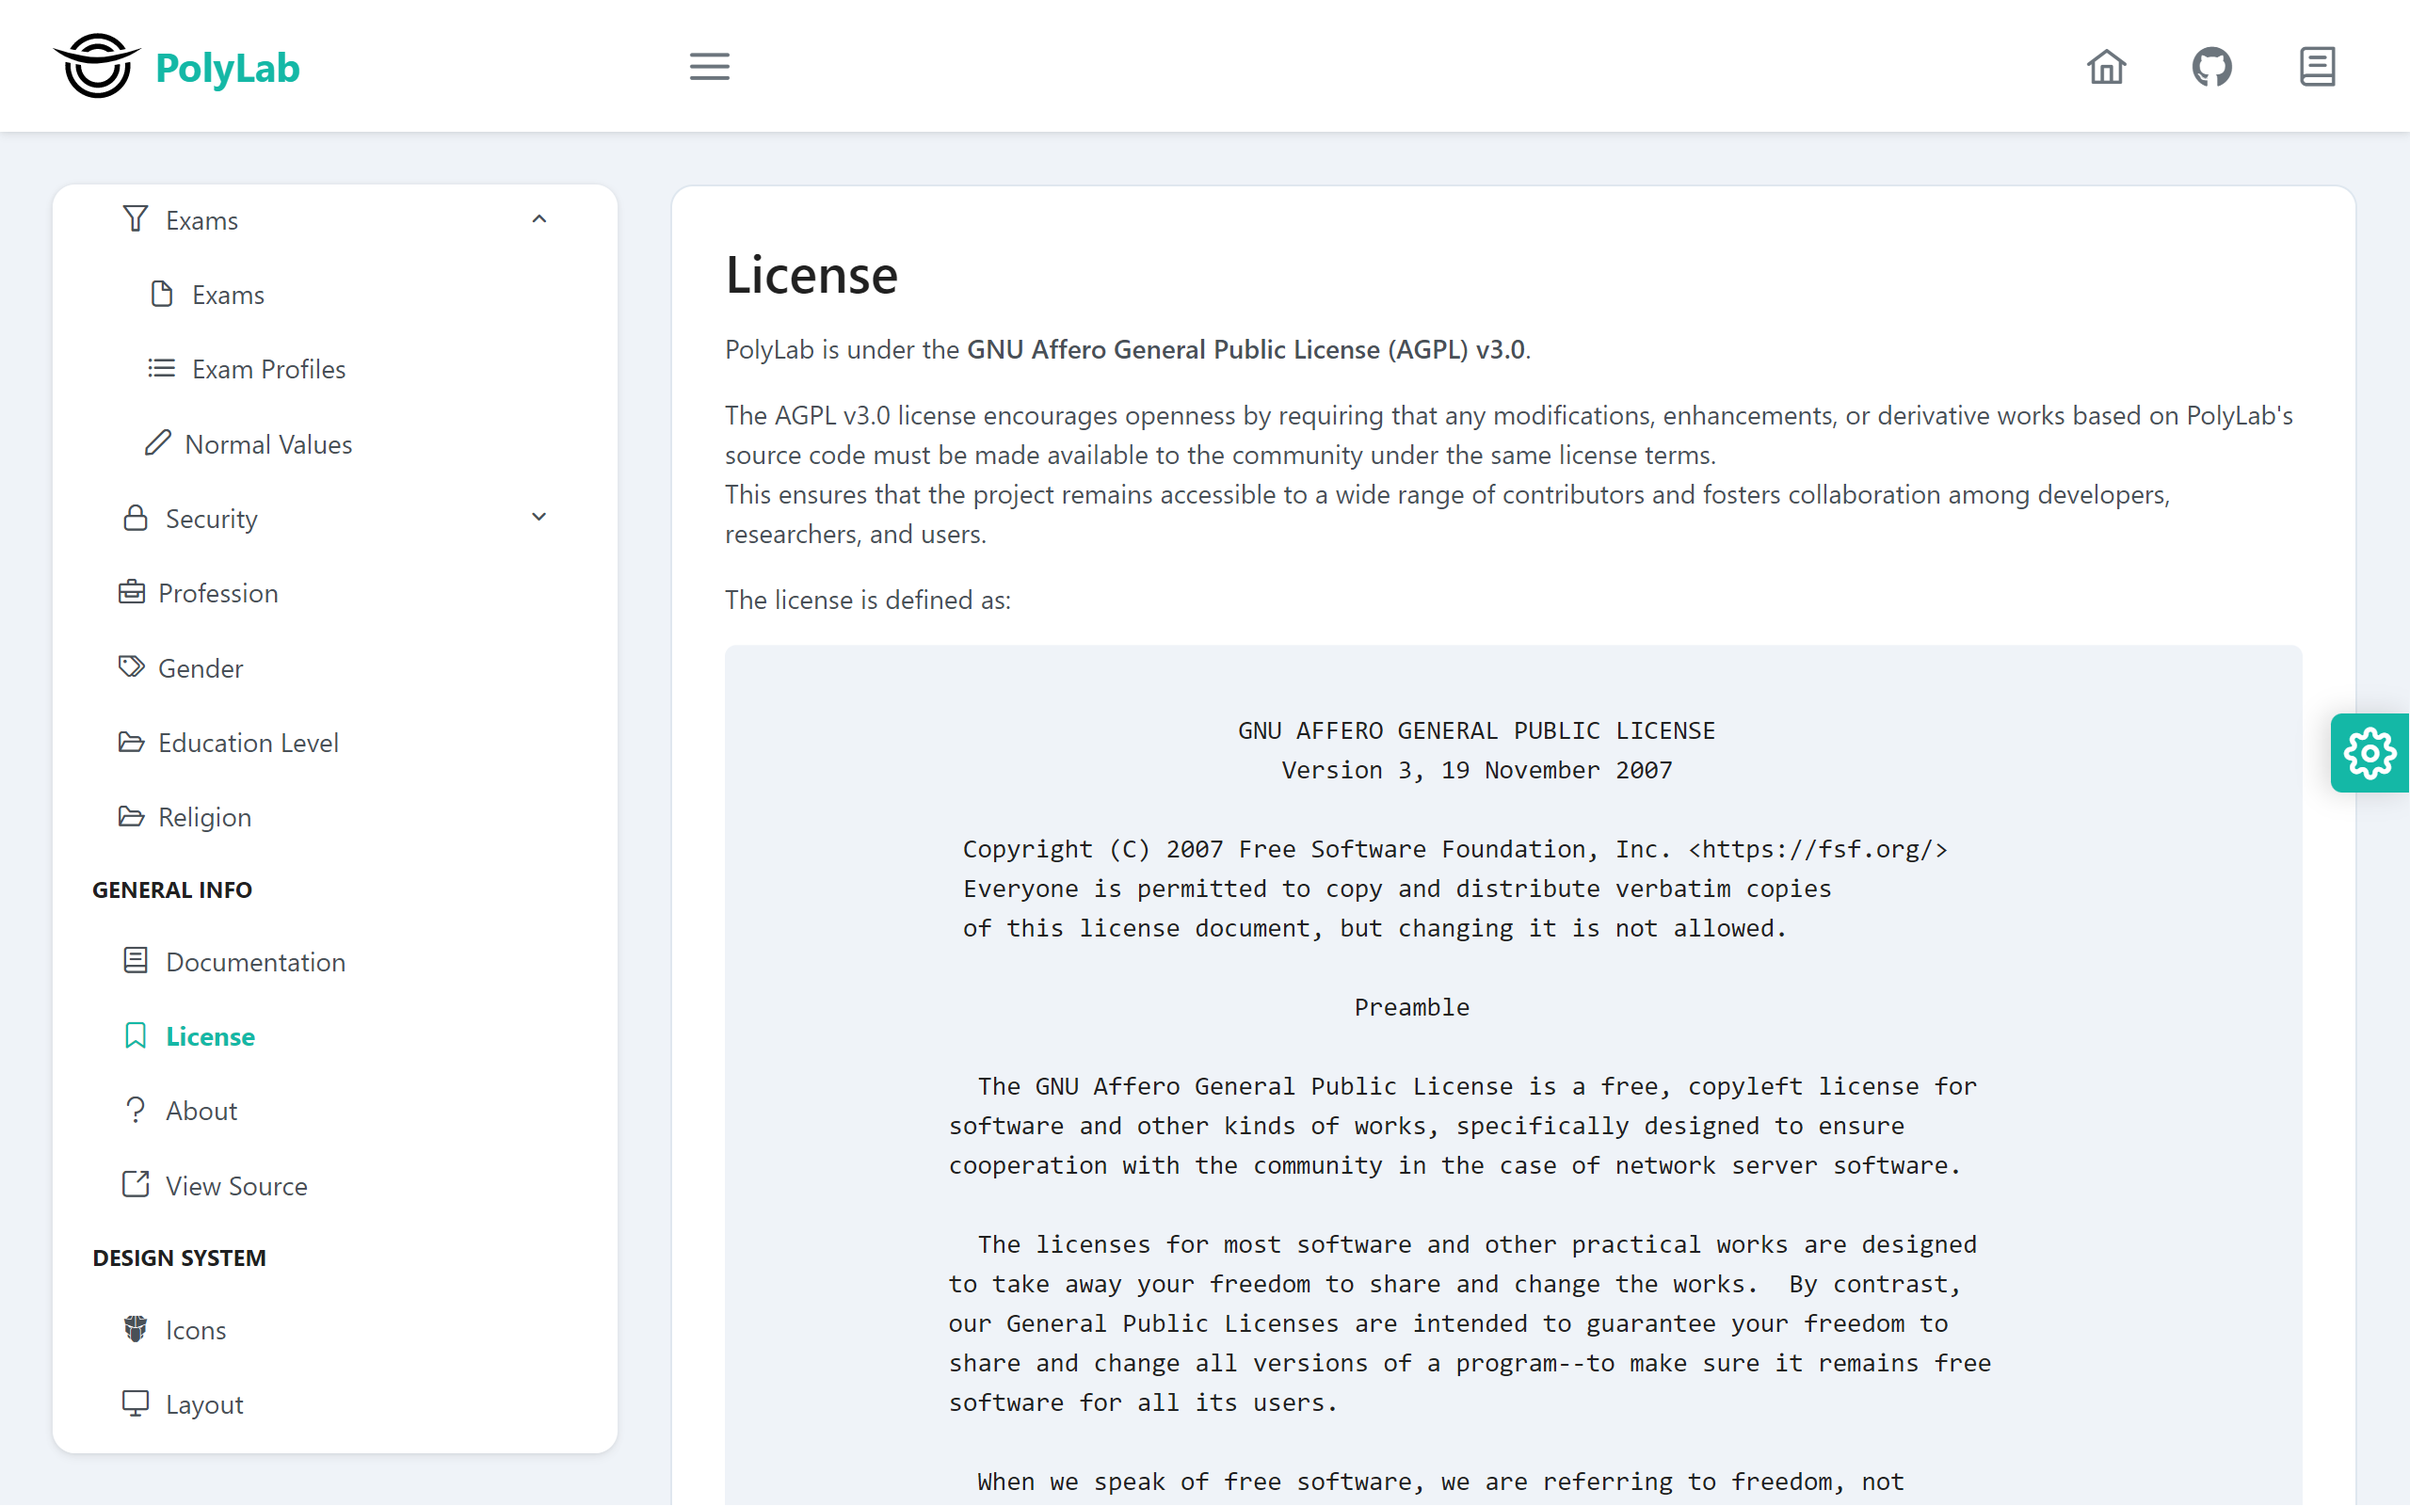
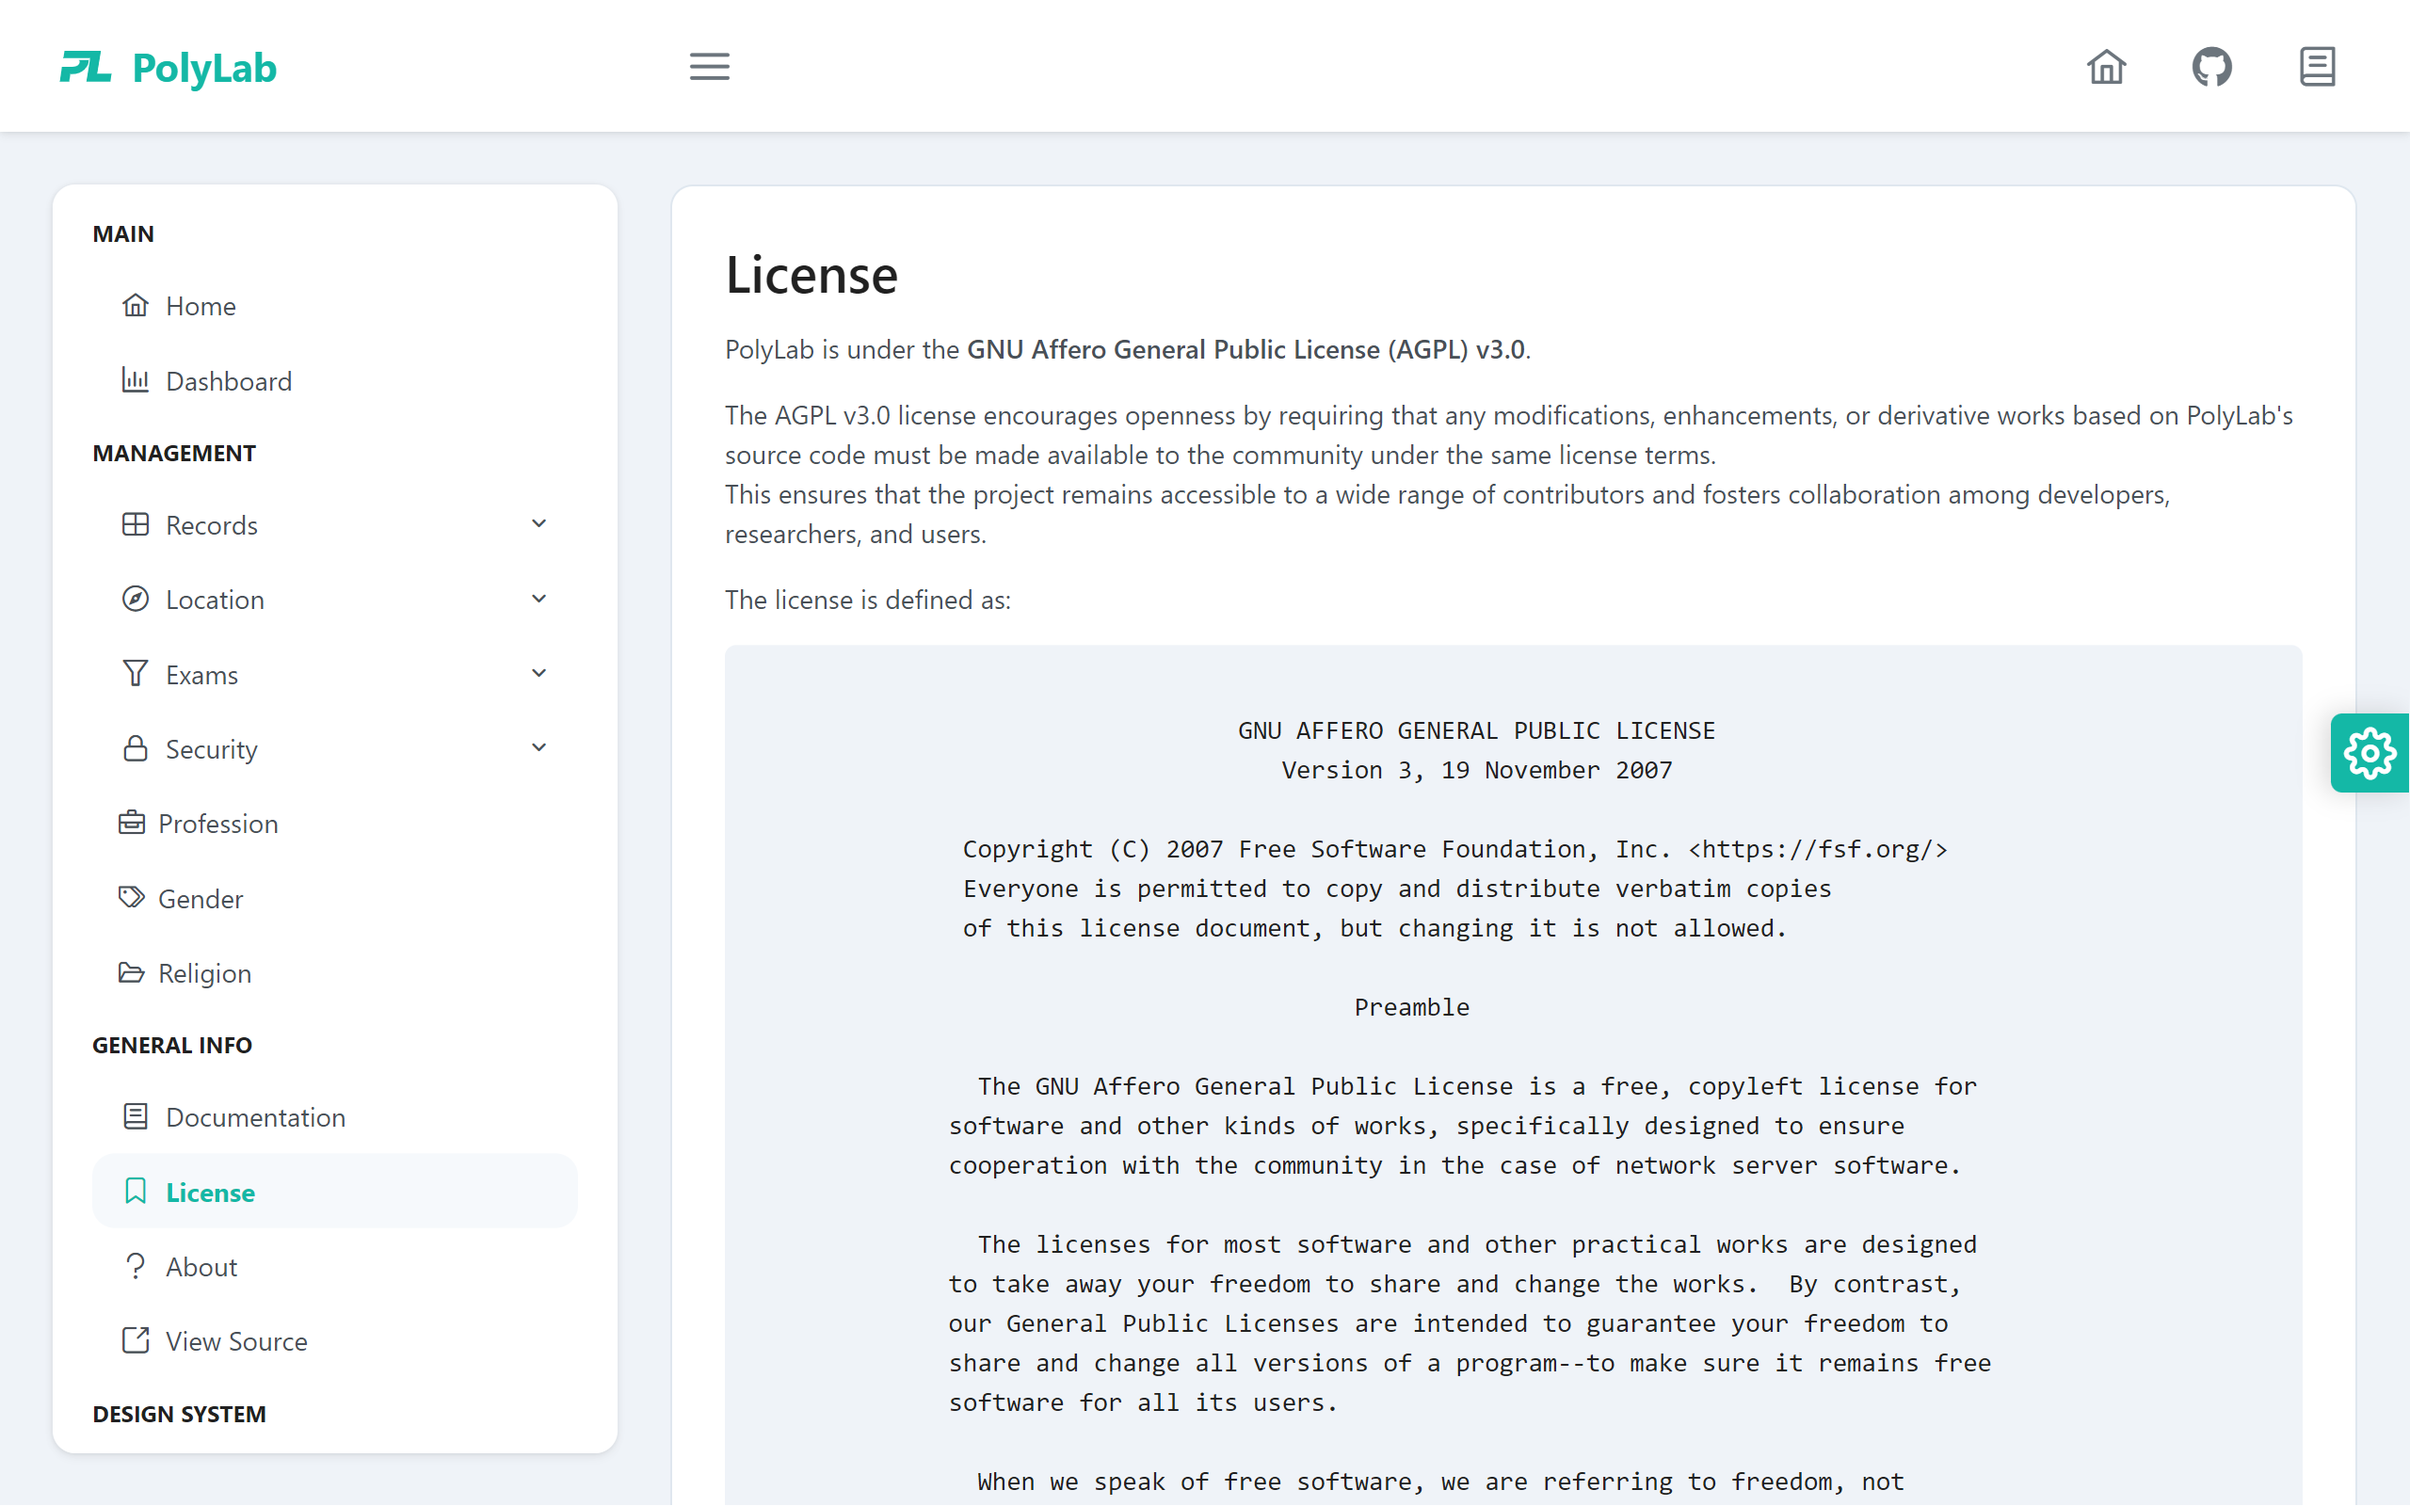
feat: add `persistent.service`

diff --git a/src/app/categories/categories.module.ts b/src/app/categories/categories.module.ts
@@ -11,16 +11,16 @@ import { ProfessionDialogComponent } from './profession/components/profession-di
 import { ProfessionTableComponent } from './profession/components/profession-table/profession-table.component';
 import { ReligionTableComponent } from './religion/components/religion-table/religion-table.component';
 import { ReligionDialogComponent } from './religion/components/religion-dialog/religion-dialog.component';
-import { ButtonModule } from "primeng/button";
-import { InputTextModule } from "primeng/inputtext";
-import { RippleModule } from "primeng/ripple";
-import { SharedModule } from "primeng/api";
-import { TableModule } from "primeng/table";
-import { ToastModule } from "primeng/toast";
-import { MdsActionToolbarModule } from "mds-light";
-import { MessagesModule } from "primeng/messages";
-import { MessageModule } from "primeng/message";
-
+import { ButtonModule } from 'primeng/button';
+import { InputTextModule } from 'primeng/inputtext';
+import { RippleModule } from 'primeng/ripple';
+import { SharedModule } from 'primeng/api';
+import { TableModule } from 'primeng/table';
+import { ToastModule } from 'primeng/toast';
+import { MdsActionToolbarModule } from 'mds-light';
+import { MessagesModule } from 'primeng/messages';
+import { MessageModule } from 'primeng/message';
+import { ReligionService } from './religion/service/religion.service';
 
 @NgModule({
   declarations: [
@@ -32,7 +32,7 @@ import { MessageModule } from "primeng/message";
     ProfessionDialogComponent,
     ProfessionTableComponent,
     ReligionTableComponent,
-    ReligionDialogComponent
+    ReligionDialogComponent,
   ],
   imports: [
     CommonModule,
@@ -45,7 +45,8 @@ import { MessageModule } from "primeng/message";
     TableModule,
     ToastModule,
     MessagesModule,
-    MessageModule
-  ]
+    MessageModule,
+  ],
+  providers: [ReligionService],
 })
-export class CategoriesModule { }
+export class CategoriesModule {}

diff --git a/src/app/categories/religion/components/religion-table/religion-table.component.ts b/src/app/categories/religion/components/religion-table/religion-table.component.ts
@@ -1,12 +1,31 @@
-import { Component } from '@angular/core';
-import { Religion } from "../../model/religion";
-import { MdsTableComponent } from "mds-light";
+import { Component, OnInit } from '@angular/core';
+import { Religion } from '../../model/religion';
+import { LabelService, MdsTableComponent } from 'mds-light';
+import { ReligionService } from '../../service/religion.service';
 
 @Component({
   selector: 'jx-religion-table',
   templateUrl: './religion-table.component.html',
-  styleUrls: ['./religion-table.component.scss']
+  styleUrls: ['./religion-table.component.scss'],
 })
-export class ReligionTableComponent extends MdsTableComponent<Religion> {
+export class ReligionTableComponent
+  extends MdsTableComponent<Religion>
+  implements OnInit
+{
+  constructor(
+    private religionService: ReligionService,
+    labelService: LabelService,
+  ) {
+    super(labelService);
+  }
+
+  ngOnInit() {
+    this.religionService.getChanges().subscribe(data =>
+      this.items = data
+    );
+    this.religionService.findAll().subscribe(data =>
+      this.items = data
+    )
+  }
 
 }

diff --git a/projects/mds-light/src/lib/service/persistence/persistent.service.ts b/projects/mds-light/src/lib/service/persistence/persistent.service.ts
@@ -1,0 +1,34 @@
+import { Inject, Injectable } from '@angular/core';
+import { HttpClient } from '@angular/common/http';
+import { Observable } from 'rxjs';
+import { ChangeNotifier } from "../../reactive/change-notifier";
+
+@Injectable({ providedIn: 'root' })
+export abstract class PersistentService<T> extends ChangeNotifier<T> {
+  protected constructor(
+    protected http: HttpClient,
+    @Inject('url') protected url: string,
+  ) {
+    super();
+  }
+
+  findAll(): Observable<T[]> {
+    return this.http.get<T[]>(`${this.url}/all`);
+  }
+
+  findById(id: number): Observable<T> {
+    return this.http.get<T>(`${this.url}/${id}`);
+  }
+
+  save(t: T) {
+    return this.http.post(this.url, t);
+  }
+
+  update(id: number, t: T) {
+    return this.http.put(`${this.url}/${id}`, t);
+  }
+
+  delete(id: number) {
+    return this.http.delete(`${this.url}/${id}`);
+  }
+}

diff --git a/projects/mds-light/src/public-api.ts b/projects/mds-light/src/public-api.ts
@@ -24,5 +24,6 @@ export * from './lib/components/exclusive-offer/mds-offer.module';
 export * from './lib/components/page-header-locator/mds-page-header-locator.module'
 export * from './lib/components/page-header-locator/mds-page-header-locator.component'
 export * from './lib/service/layout/layout.service'
+export * from './lib/service/persistence/persistent.service'
 export * from './lib/service/icons/icon.service'
 export * from './lib/service/labels/label.service'

diff --git a/src/app/categories/religion/service/religion.service.ts b/src/app/categories/religion/service/religion.service.ts
@@ -1,0 +1,11 @@
+import { Injectable } from '@angular/core';
+import { PersistentService } from "mds-light";
+import { Religion } from "../model/religion";
+import { HttpClient } from "@angular/common/http";
+
+@Injectable()
+export class ReligionService extends PersistentService<Religion> {
+  constructor(protected override http: HttpClient) {
+    super(http, `http://localhost:8089/v1/religions`);
+  }
+}

diff --git a/projects/mds-light/src/lib/reactive/change-notifier.ts b/projects/mds-light/src/lib/reactive/change-notifier.ts
@@ -1,0 +1,13 @@
+import { Observable, Subject } from 'rxjs';
+
+export abstract class ChangeNotifier<T> {
+  public changes = new Subject<T[]>();
+
+  public setChanges(data: T[]): void {
+    this.changes.next(data);
+  }
+
+  public getChanges(): Observable<T[]> {
+    return this.changes.asObservable();
+  }
+}

diff --git a/README.md b/README.md
@@ -4,7 +4,7 @@
 <div align="center">
   <a href="#">
    <!-- Replace this logo for a custom official logo -->
-    <img src="./readme-assets/logos/official_logo.jpg" alt="Logo" width="180" height="150">
+    <img src="./readme-assets/logos/polylab-teal.svg" alt="Logo" width="150" height="150">
   </a>
 
 <h1 align = "center">
